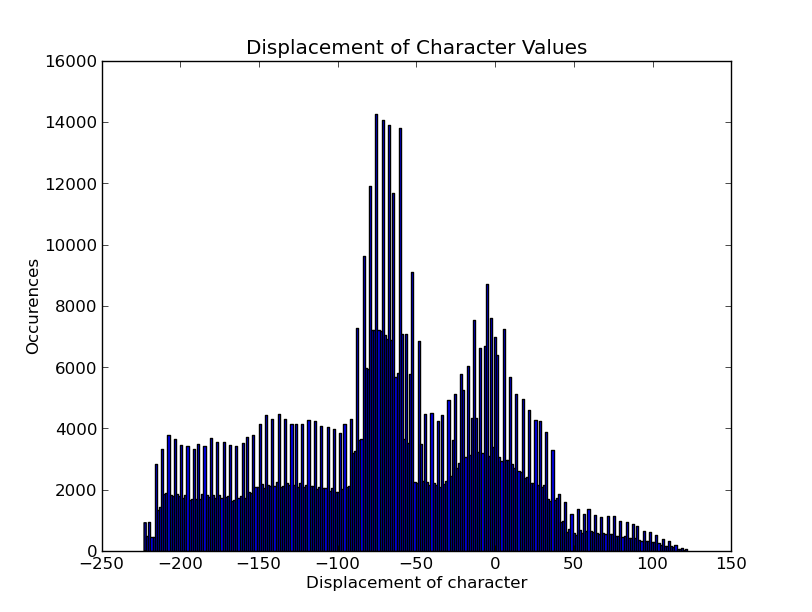
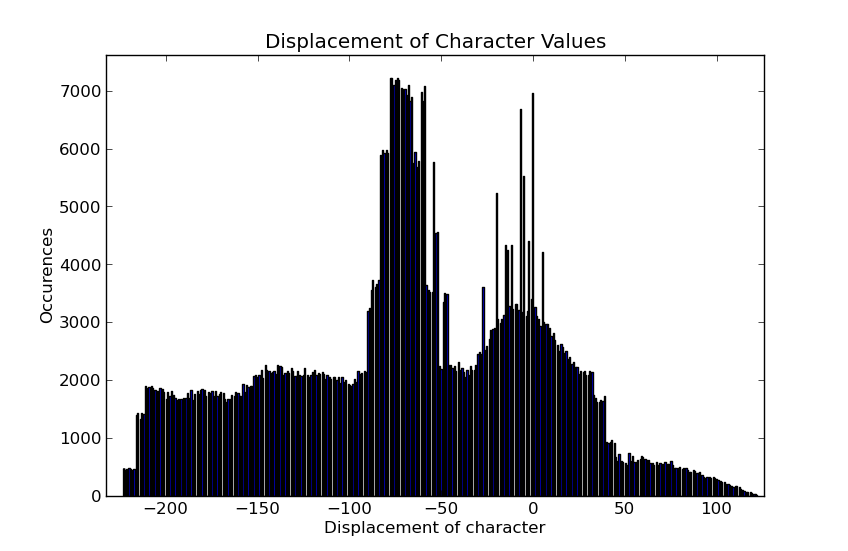
higher resolution figure 3

Changed region(s): [[0.0308, 0.0926, 0.9236, 0.9873], [0.3079, 0.0617, 0.7389, 0.0926]]

diff --git a/Analysis/charchange.py b/Analysis/charchange.py
@@ -21,7 +21,7 @@ def getFrequencies():
     return changevalues
 
 changev = getFrequencies()
-plot.hist(changev, 256)
+plot.hist(changev, 512)
 plot.ylabel("Occurences")
 plot.xlabel("Displacement of character")
 plot.title("Displacement of Character Values")
